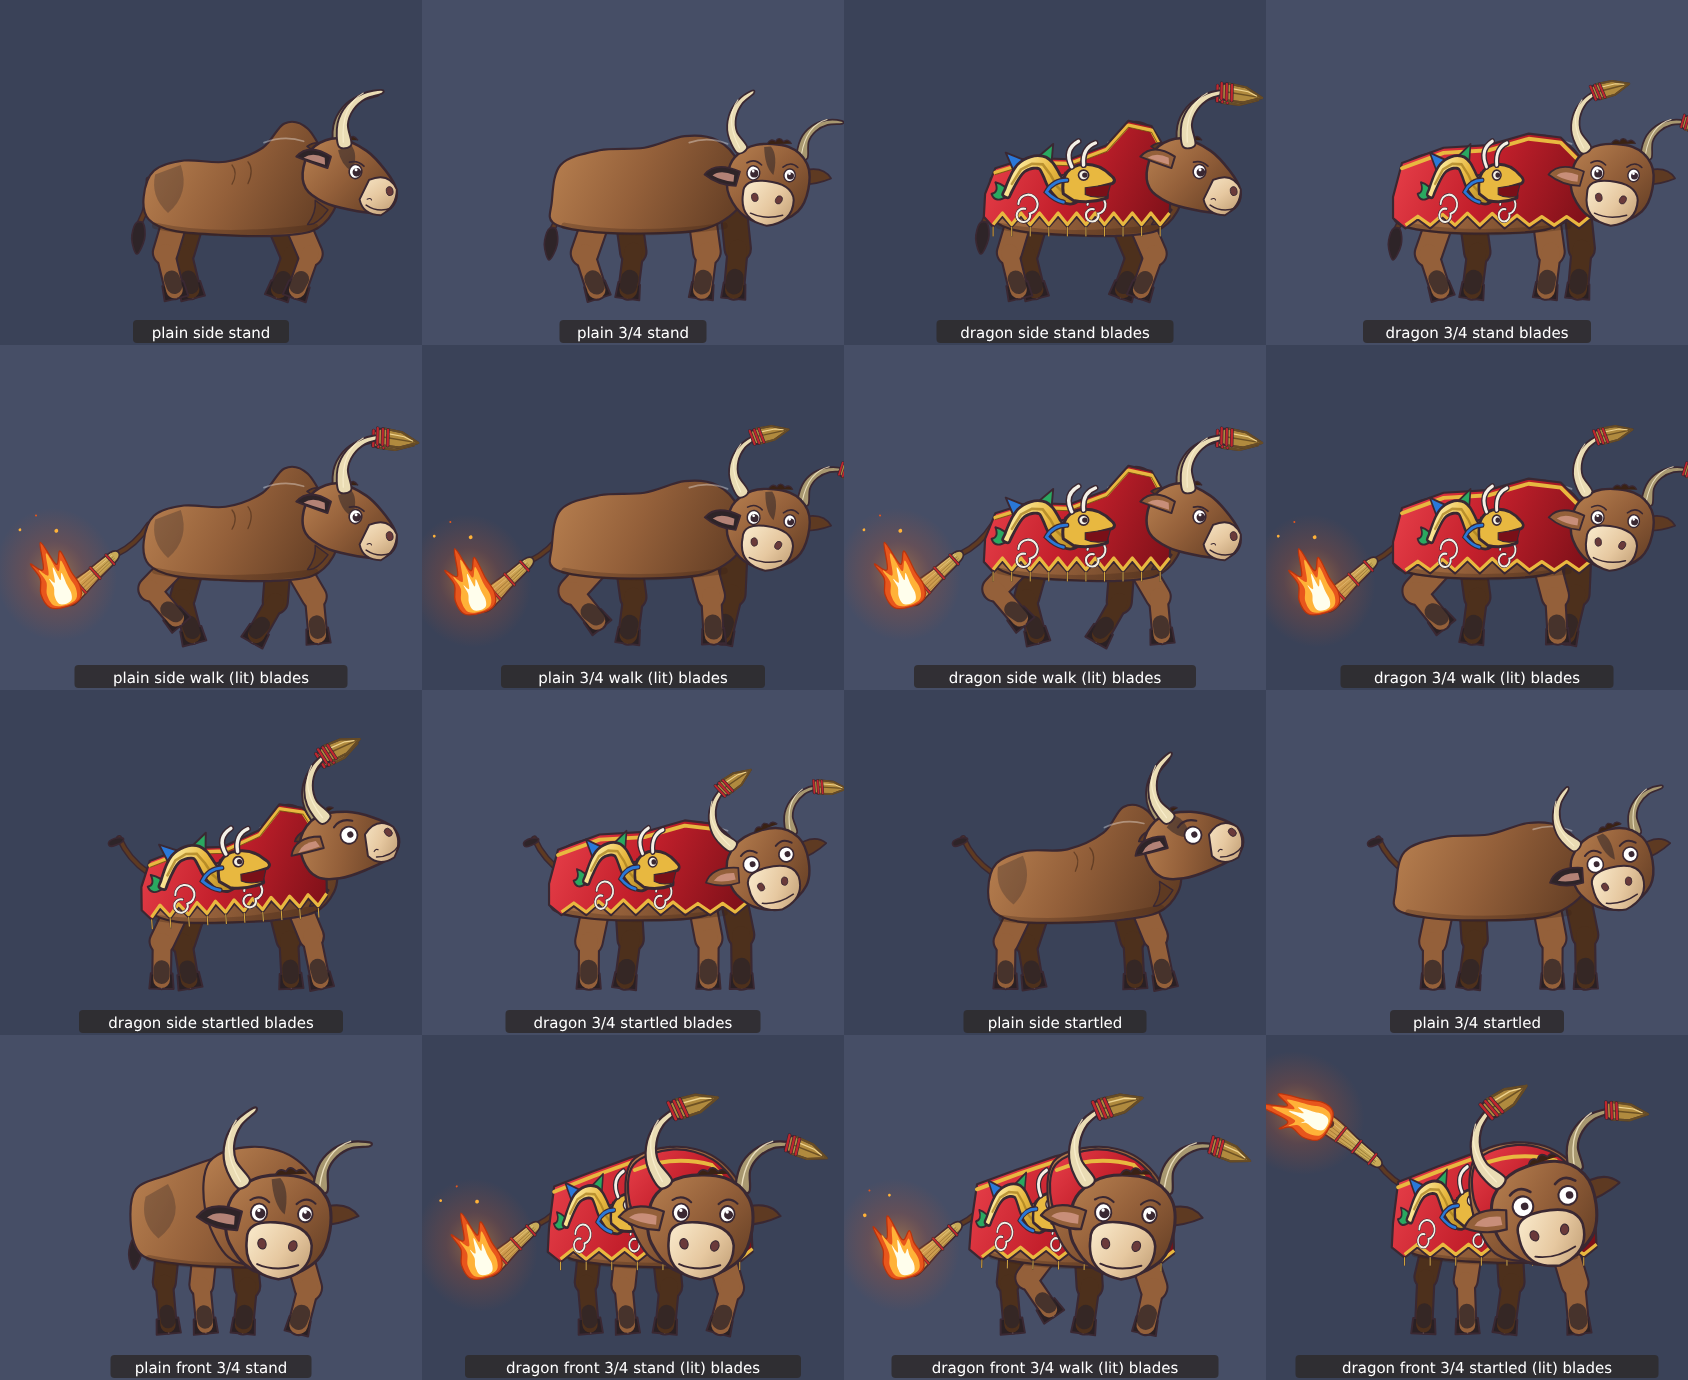
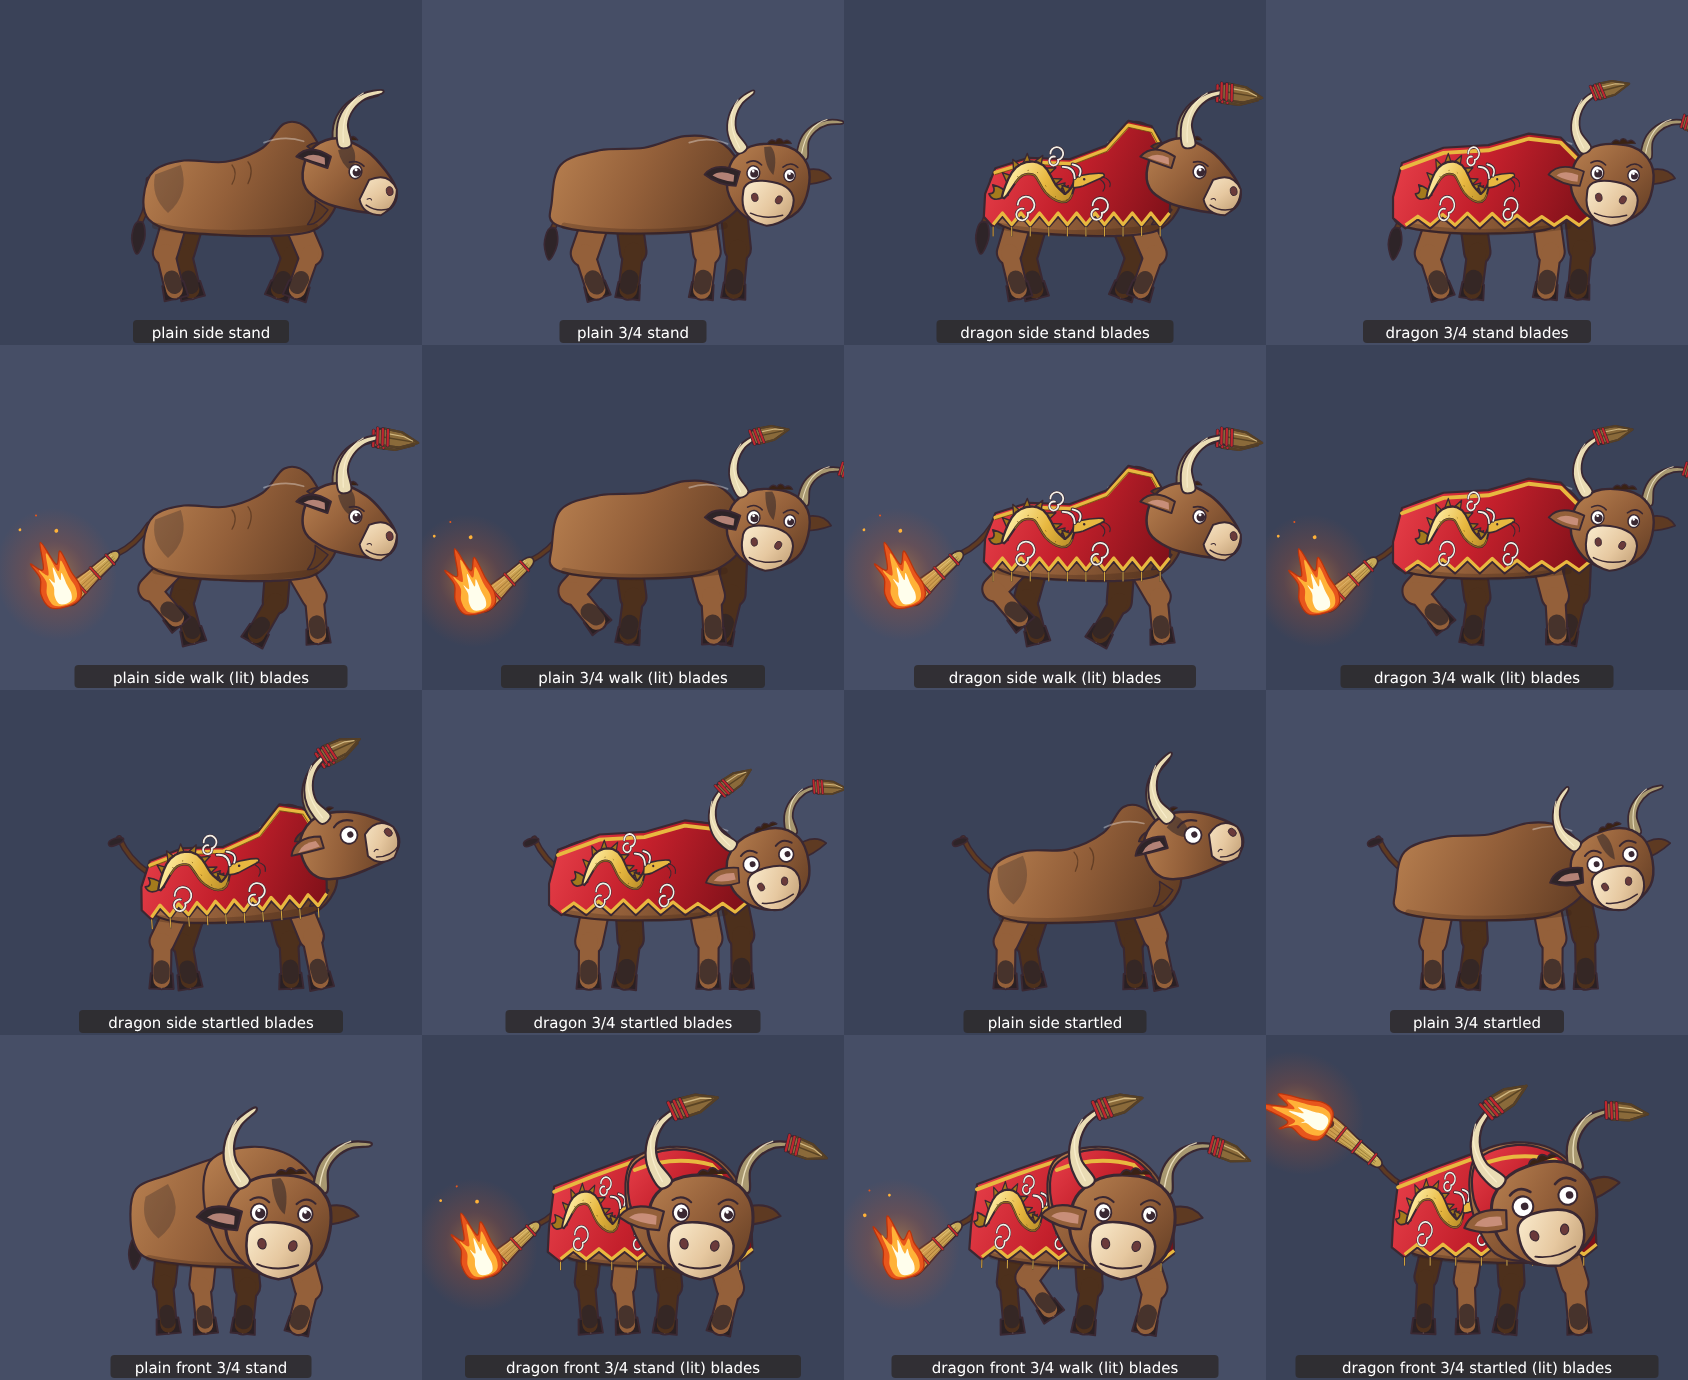
Film 18: cast final ox fix WIP snapshot
Claude-Session: https://claude.ai/code/session_017iwyCvVMNGbXvPKfFFmTvB

diff --git a/film/v3/cast18/cast18.py b/film/v3/cast18/cast18.py
@@ -1270,13 +1270,13 @@ def _horn(k, base, ang, sc, far=False, blade=True, ln=1.0):
 
 def _blade_on_horn(k, tip, d, sc):
     """a short flat bronze DAGGER blade lashed to the horn tip, pointing on along the horn (fix 15: about 52 % of the old 0.95 long leaf):
-    bronze #b08a3e body with a darker edge line and a bright bevel, three red cord wraps at the root.  sc is the old scale (1.7 / 1.5)."""
+    bronze #8a6a3a body, a darker #5a4424 edge and a thin highlight, three red cord wraps at the root.  sc is the old scale (1.7 / 1.5)."""
     f = sc / 1.7
     s = _T(tip[0], tip[1], d + 24.0, f)        # swung forward off the horn line so horn + blade never read as one long spike
-    s += '<path d="M-0.06,-0.095 L0.02,-0.115 L0.26,-0.105 L0.50,0 L0.26,0.105 L0.02,0.115 L-0.06,0.095 Z" fill="%s" stroke="%s" stroke-width="0.028" stroke-linejoin="round"/>' % (k.c("#b08a3e"), k.ink)
-    s += '<path d="M0.02,-0.115 L0.26,-0.105 L0.50,0 L0.26,0.105 L0.02,0.115" fill="none" stroke="%s" stroke-width="0.030" stroke-linejoin="round" opacity="0.85"/>' % k.c("#6e5224")
-    s += '<path d="M0.02,0 L0.44,0" stroke="%s" stroke-width="0.020" stroke-linecap="round"/>' % k.c("#6e5224")
-    s += '<path d="M0.06,-0.055 L0.30,-0.050 L0.42,-0.012" fill="none" stroke="#f6dc98" stroke-width="0.016" stroke-linecap="round" opacity="0.9"/>'
+    s += '<path d="M-0.06,-0.095 L0.02,-0.115 L0.26,-0.105 L0.50,0 L0.26,0.105 L0.02,0.115 L-0.06,0.095 Z" fill="%s" stroke="%s" stroke-width="0.028" stroke-linejoin="round"/>' % (k.c("#8a6a3a"), k.ink)
+    s += '<path d="M0.02,-0.115 L0.26,-0.105 L0.50,0 L0.26,0.105 L0.02,0.115" fill="none" stroke="%s" stroke-width="0.030" stroke-linejoin="round" opacity="0.85"/>' % k.c("#5a4424")
+    s += '<path d="M0.02,0 L0.44,0" stroke="%s" stroke-width="0.020" stroke-linecap="round"/>' % k.c("#5a4424")
+    s += '<path d="M0.06,-0.055 L0.30,-0.050 L0.42,-0.012" fill="none" stroke="#d8c088" stroke-width="0.016" stroke-linecap="round" opacity="0.9"/>'
     for x in (-0.07, 0.0, 0.07):
         s += '<path d="M%.4f,-0.105 L%.4f,0.105" stroke="%s" stroke-width="0.048" stroke-linecap="round"/>' % (x, x + 0.03, k.ink)
         s += '<path d="M%.4f,-0.105 L%.4f,0.105" stroke="%s" stroke-width="0.030" stroke-linecap="round"/>' % (x, x + 0.03, k.c(CORD["base"]))
@@ -1285,38 +1285,59 @@ def _blade_on_horn(k, tip, d, sc):
 
 
 def _dragon(k, sx=1.0):
-    """the dragon painted on the silk coat (fix 15: bolder and simpler, the HEAD at mid-flank so it never reads as a second ox head).  Local
-    frame of the flank: x -1.4 .. 0.55, y -2.2 .. -1.25.  A fat gold S-body with a heavy ink line, four big fins (blue / green / white /
-    blue), a tail fin at the rump, one big horned head with an eye, open mouth and one whisker around x -0.1; two cream cloud scrolls."""
+    """the dragon painted on the silk coat (round 3: a SERPENTINE body, not a face).  Local frame of the flank: x -1.4 .. 0.55, y -2.2 .. -1.25.
+    A long gold S-curve body (thick in the middle, thin at the tail and at the neck) with a dark-gold belly line and scale ticks, a fin crest
+    of small triangles along the back, a flame tail tuft, and a SMALL profile head (a long snout, two swept-back horns, a dot eye, no open mouth,
+    about 15 % of the coat height) at mid-flank, x about -0.15; three cream cloud swirls around it."""
     o = []
-    for (x, y, r, c) in ((-0.95, -1.34, 0.15, "#f4f0e6"), (0.12, -1.33, 0.14, "#f4f0e6")):
-        o.append('<path d="M%.4f,%.4f a%.4f,%.4f 0 1 1 %.4f,%.4f a%.4f,%.4f 0 1 1 %.4f,%.4f" fill="none" stroke="%s" stroke-width="0.050" stroke-linecap="round"/>' % (x - r, y, r, r, r * 1.2, r * 1.0, r * 0.7, r * 0.7, -r * 0.5, -r * 0.5, k.ink))
-        o.append('<path d="M%.4f,%.4f a%.4f,%.4f 0 1 1 %.4f,%.4f a%.4f,%.4f 0 1 1 %.4f,%.4f" fill="none" stroke="%s" stroke-width="0.032" stroke-linecap="round"/>' % (x - r, y, r, r, r * 1.2, r * 1.0, r * 0.7, r * 0.7, -r * 0.5, -r * 0.5, k.c(c)))
-    spine = [(-1.30, -1.46), (-1.06, -1.90), (-0.72, -1.98), (-0.50, -1.64), (-0.30, -1.50), (-0.14, -1.68)]
-    fc = ("#2a78d8", "#2aa860", "#f4f0e6", "#2a78d8")
-    sm = _sample(spine, 20)
-    for j, i in enumerate((4, 8, 12, 16)):
-        a, b = sm[i], sm[i + 1]
-        dx, dy = (sm[i + 1][0] - sm[i - 1][0], sm[i + 1][1] - sm[i - 1][1])
-        L = math.hypot(dx, dy) or 1.0
-        nx, ny = dy / L, -dx / L
+    for (x, y, r, c) in ((-0.98, -1.33, 0.13, "#f4f0e6"), (0.18, -1.32, 0.12, "#f4f0e6"), (-0.50, -2.13, 0.10, "#f4f0e6")):
+        d = 'M%.4f,%.4f a%.4f,%.4f 0 1 1 %.4f,%.4f a%.4f,%.4f 0 1 1 %.4f,%.4f' % (x - r, y, r, r, r * 1.2, r * 1.0, r * 0.7, r * 0.7, -r * 0.5, -r * 0.5)
+        o.append('<path d="%s" fill="none" stroke="%s" stroke-width="0.046" stroke-linecap="round"/>' % (d, k.ink))
+        o.append('<path d="%s" fill="none" stroke="%s" stroke-width="0.028" stroke-linecap="round"/>' % (d, k.c(c)))
+    spine = [(-1.34, -1.44), (-1.10, -1.84), (-0.80, -1.88), (-0.58, -1.56), (-0.36, -1.44), (-0.22, -1.66)]
+    sm = _sample(spine, 24)
+    n = len(sm)
+    wp = [0.020 + 0.085 * math.sin(math.pi * min(1.0, i / (n - 1.0) * 1.08)) ** 0.8 for i in range(n)]
+    L_, R_ = [], []
+    nrm = []
+    for i in range(n):
+        a, b = sm[max(i - 1, 0)], sm[min(i + 1, n - 1)]
+        dx, dy = b[0] - a[0], b[1] - a[1]
+        Ln = math.hypot(dx, dy) or 1.0
+        nrm.append((dy / Ln, -dx / Ln, dx / Ln, dy / Ln))
+    # fin crest on the outer (upper) side
+    for i in range(3, n - 3, 2):
+        nx, ny, tx, ty = nrm[i]
         if ny > 0:
             nx, ny = -nx, -ny
-        o.append('<path d="M%.4f,%.4f L%.4f,%.4f L%.4f,%.4f Z" fill="%s" stroke="%s" stroke-width="0.030" stroke-linejoin="round"/>' % (a[0] - dx / L * 0.13, a[1] - dy / L * 0.13, a[0] + nx * 0.34, a[1] + ny * 0.34, a[0] + dx / L * 0.15, a[1] + dy / L * 0.15, k.c(fc[j]), k.ink))
-    o.append('<path d="M-1.28,-1.46 Q-1.46,-1.34 -1.52,-1.50 Q-1.40,-1.52 -1.46,-1.68 Q-1.30,-1.64 -1.22,-1.50 Z" fill="%s" stroke="%s" stroke-width="0.030" stroke-linejoin="round"/>' % (k.c("#2aa860"), k.ink))
-    body = _taper(sm, 0.10, 0.38)
+        w = wp[i]
+        px, py = sm[i]
+        o.append('<path d="M%.4f,%.4f L%.4f,%.4f L%.4f,%.4f Z" fill="%s" stroke="%s" stroke-width="0.022" stroke-linejoin="round"/>' % (
+            px - tx * 0.07 + nx * w * 0.6, py - ty * 0.07 + ny * w * 0.6, px + nx * (w + 0.13) + tx * 0.04, py + ny * (w + 0.13) + ty * 0.04,
+            px + tx * 0.07 + nx * w * 0.6, py + ty * 0.07 + ny * w * 0.6, k.c(GOLD["dark"]), k.ink))
+    for i in range(n):
+        nx, ny, tx, ty = nrm[i]
+        L_.append((sm[i][0] + nx * wp[i], sm[i][1] + ny * wp[i]))
+        R_.append((sm[i][0] - nx * wp[i], sm[i][1] - ny * wp[i]))
+    pts = L_ + R_[::-1]
+    body = "M" + " L".join("%.4f,%.4f" % p for p in pts) + " Z"
+    # tail tuft
+    o.append('<path d="M-1.33,-1.45 Q-1.50,-1.36 -1.56,-1.50 Q-1.44,-1.50 -1.50,-1.64 Q-1.32,-1.60 -1.26,-1.48 Z" fill="%s" stroke="%s" stroke-width="0.026" stroke-linejoin="round"/>' % (k.c(GOLD["dark"]), k.ink))
     g = _lin(k, "dgb", GOLD["light"], GOLD["base"], GOLD["dark"], -1.2, -2.0, 0.0, -1.4)
-    o.append('<path d="%s" fill="%s" stroke="%s" stroke-width="0.044" stroke-linejoin="round"/>' % (body, g, k.ink))
-    o.append('<path d="M%s" fill="none" stroke="%s" stroke-width="0.040" stroke-linecap="round" opacity="0.7"/>' % (" L".join("%.4f,%.4f" % (x, y + 0.02) for (x, y) in sm[2:-3:2]), k.c(GOLD["dark"])))
-    hx, hy = spine[-1]
-    o.append('<g transform="translate(%.4f %.4f) scale(1.32)">' % (hx - 0.10, hy + 0.02))
-    o.append('<path d="M-0.12,0.12 Q-0.16,-0.16 0.06,-0.22 Q0.28,-0.26 0.44,-0.10 Q0.52,-0.04 0.46,0.0 L0.30,0.04 Q0.42,0.10 0.40,0.17 Q0.20,0.24 0.0,0.20 Z" fill="%s" stroke="%s" stroke-width="0.036" stroke-linejoin="round"/>' % (k.c(GOLD["base"]), k.ink))
-    o.append('<path d="M0.14,0.05 L0.44,0.01 L0.40,0.15 Q0.24,0.18 0.14,0.13 Z" fill="%s" stroke="%s" stroke-width="0.014"/>' % (k.c("#7a1018"), k.ink))
-    o.append('<circle cx="0.12" cy="-0.10" r="0.060" fill="#f4f0e6" stroke="%s" stroke-width="0.020"/><circle cx="0.135" cy="-0.10" r="0.032" fill="%s"/>' % (k.ink, k.ink))
-    o.append('<path d="M-0.02,-0.20 Q-0.12,-0.40 0.06,-0.50 M0.12,-0.22 Q0.10,-0.42 0.26,-0.48" fill="none" stroke="%s" stroke-width="0.074" stroke-linecap="round"/>' % k.ink)
-    o.append('<path d="M-0.02,-0.20 Q-0.12,-0.40 0.06,-0.50 M0.12,-0.22 Q0.10,-0.42 0.26,-0.48" fill="none" stroke="%s" stroke-width="0.040" stroke-linecap="round"/>' % k.c("#f4f0e6"))
-    o.append('<path d="M-0.08,-0.04 Q-0.24,-0.04 -0.32,0.10 Q-0.22,0.20 -0.12,0.22" fill="none" stroke="%s" stroke-width="0.062" stroke-linecap="round"/>' % k.ink)
-    o.append('<path d="M-0.08,-0.04 Q-0.24,-0.04 -0.32,0.10 Q-0.22,0.20 -0.12,0.22" fill="none" stroke="%s" stroke-width="0.034" stroke-linecap="round"/>' % k.c("#2a78d8"))
+    o.append('<path d="%s" fill="%s" stroke="%s" stroke-width="0.036" stroke-linejoin="round"/>' % (body, g, k.ink))
+    o.append('<path d="M%s" fill="none" stroke="%s" stroke-width="0.020" stroke-linecap="round" opacity="0.8"/>' % (" L".join("%.4f,%.4f" % (x, y) for (x, y) in R_[3:-3:1]), k.c(GOLD["dark"])))
+    for i in range(4, n - 4, 3):
+        nx, ny, tx, ty = nrm[i]
+        o.append('<path d="M%.4f,%.4f q%.4f,%.4f %.4f,%.4f" fill="none" stroke="%s" stroke-width="0.012" opacity="0.7"/>' % (
+            sm[i][0] - nx * 0.04, sm[i][1] - ny * 0.04, tx * 0.03, ty * 0.03, -nx * 0.08 * 0, 0.0, k.c(GOLD["deep"])))
+    # small profile head at the neck end, facing +x: about 0.20 tall, 0.40 long with the snout
+    hx, hy = sm[-1]
+    o.append('<g transform="translate(%.4f %.4f) rotate(-14)">' % (hx, hy))
+    o.append('<path d="M0.0,-0.07 L0.10,-0.10 Q0.30,-0.10 0.46,-0.05 Q0.50,-0.02 0.46,0.01 L0.12,0.07 Q0.02,0.08 -0.04,0.05 Z" fill="%s" stroke="%s" stroke-width="0.026" stroke-linejoin="round"/>' % (k.c(GOLD["base"]), k.ink))
+    o.append('<path d="M0.10,-0.10 Q0.20,-0.22 0.04,-0.30 M0.02,-0.08 Q0.06,-0.26 -0.12,-0.30" fill="none" stroke="%s" stroke-width="0.056" stroke-linecap="round"/>' % k.ink)
+    o.append('<path d="M0.10,-0.10 Q0.20,-0.22 0.04,-0.30 M0.02,-0.08 Q0.06,-0.26 -0.12,-0.30" fill="none" stroke="%s" stroke-width="0.028" stroke-linecap="round"/>' % k.c("#f4f0e6"))
+    o.append('<path d="M0.44,0.0 Q0.58,0.08 0.52,0.18 M0.40,0.03 Q0.50,0.14 0.40,0.22" fill="none" stroke="%s" stroke-width="0.018" stroke-linecap="round"/>' % k.ink)
+    o.append('<circle cx="0.16" cy="-0.03" r="0.020" fill="%s"/>' % k.ink)
     o.append('</g>')
     return "".join(o)
 
